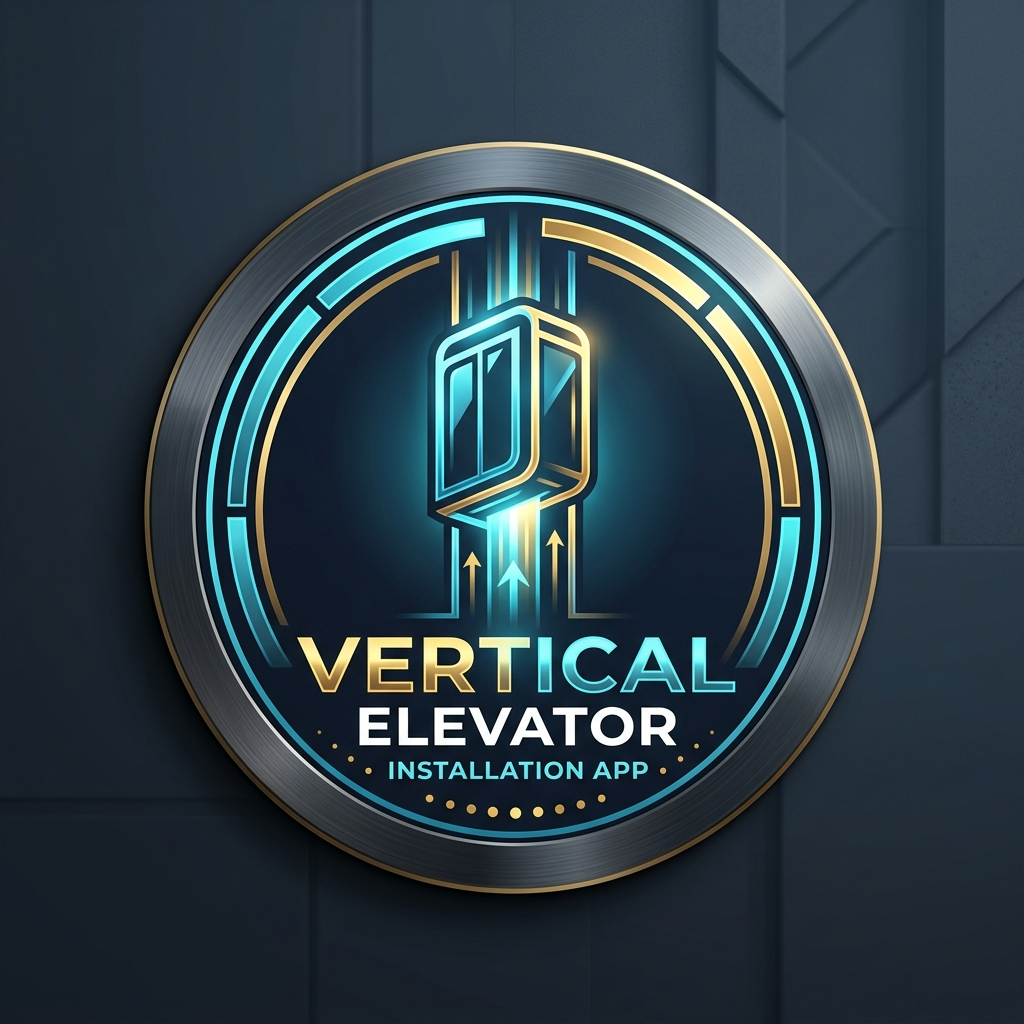
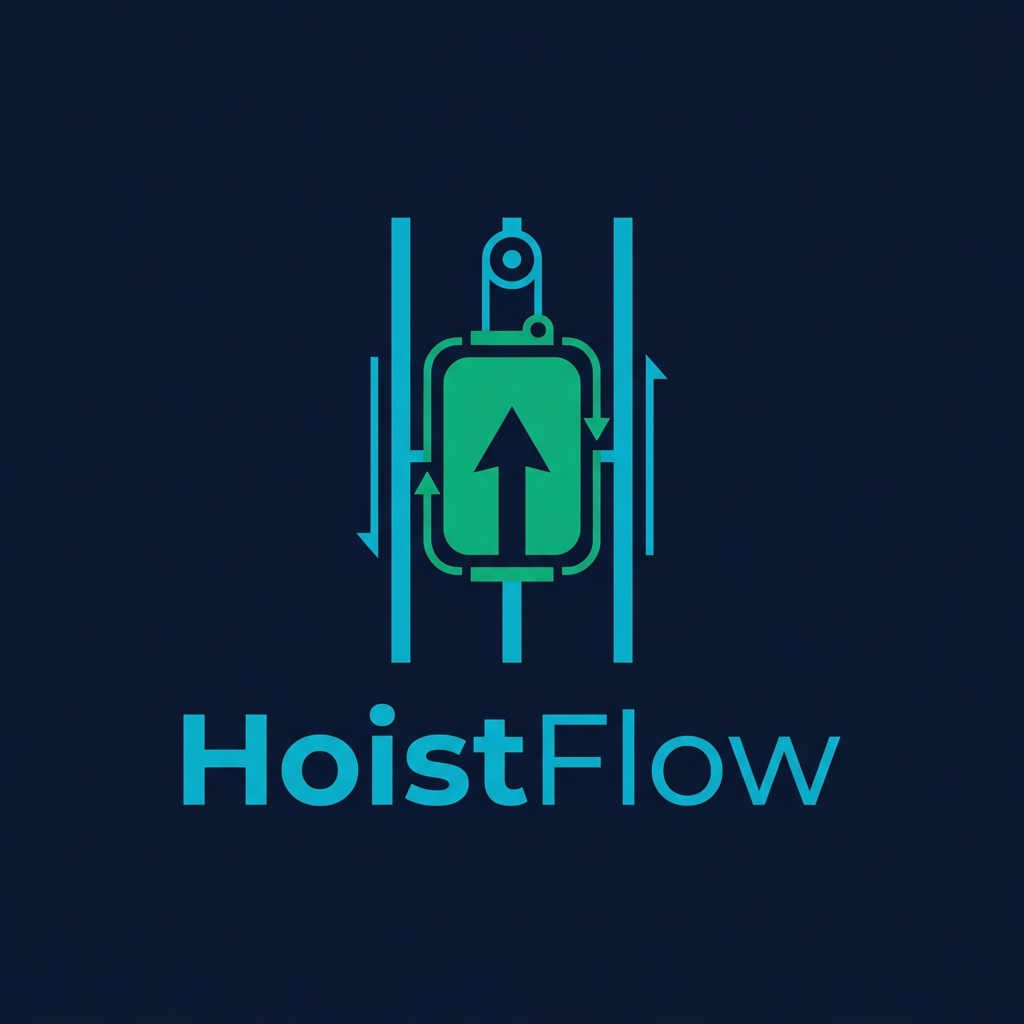
feat: rebrand para HoistFlow

diff --git a/dashboard/src/App.jsx b/dashboard/src/App.jsx
@@ -285,7 +285,7 @@ export default function App() {
   // AI Chat Assistant States
   const [chatMessages, setChatMessages] = useState(() => {
     try {
-      const saved = localStorage.getItem('elevatesync_chat_history');
+      const saved = localStorage.getItem('HoistFlow_chat_history');
       if (saved) {
         return JSON.parse(saved);
       }
@@ -295,7 +295,7 @@ export default function App() {
     return [
       { 
         role: 'assistant', 
-        content: 'Olá! Sou o Assistente IA do ElevateSync. Tenho acesso completo a todas as obras, técnicos, equipes e logs de auditoria em tempo real.\n\nPosso te ajudar com análises de prazos, resumos para colar no WhatsApp, dúvidas técnicas sobre montagem ou relatórios operacionais. Como posso ajudar hoje?', 
+        content: 'Olá! Sou o Assistente IA do HoistFlow. Tenho acesso completo a todas as obras, técnicos, equipes e logs de auditoria em tempo real.\n\nPosso te ajudar com análises de prazos, resumos para colar no WhatsApp, dúvidas técnicas sobre montagem ou relatórios operacionais. Como posso ajudar hoje?', 
         timestamp: new Date().toISOString() 
       }
     ];
@@ -1418,7 +1418,7 @@ export default function App() {
         body: {
           action: 'send_test',
           chat_id: tech.telegram_chat_id,
-          text: `⚡ *Teste de Conexão ElevateSync*\n\nOlá *${tech.full_name}*!\n\nEste é um teste de integração de mensagens do painel administrativo. O seu bot do Telegram está configurado corretamente com o Chat ID \`${tech.telegram_chat_id}\`!`
+          text: `⚡ *Teste de Conexão HoistFlow*\n\nOlá *${tech.full_name}*!\n\nEste é um teste de integração de mensagens do painel administrativo. O seu bot do Telegram está configurado corretamente com o Chat ID \`${tech.telegram_chat_id}\`!`
         }
       });
 
@@ -1817,7 +1817,7 @@ Gere uma resposta curta (máximo de 150 palavras), formatada de maneira limpa co
     
     const updatedMessages = [...chatMessages, newUserMessage];
     setChatMessages(updatedMessages);
-    localStorage.setItem('elevatesync_chat_history', JSON.stringify(updatedMessages));
+    localStorage.setItem('HoistFlow_chat_history', JSON.stringify(updatedMessages));
     setChatInput('');
     setChatLoading(true);
 
@@ -1855,7 +1855,7 @@ Gere uma resposta curta (máximo de 150 palavras), formatada de maneira limpa co
         spreadsheetContext = `\n**DADOS EXTRATADOS DA PLANILHA EXTERNA (NOVAS OBRAS FUTURAS A INICIAR):**\n${JSON.stringify(uploadedData, null, 2)}\n`;
       }
 
-      const systemPrompt = `Você é o Co-piloto de Gestão Inteligente e Assistente IA do ElevateSync.
+      const systemPrompt = `Você é o Co-piloto de Gestão Inteligente e Assistente IA do HoistFlow.
 Você é um engenheiro eletrônico sênior e supervisor de instalação especialista em gestão de obras de elevadores comerciais.
 Sua missão é responder perguntas do gestor sobre o andamento das obras, eficiência de equipes e prover suporte técnico.
 
@@ -1910,7 +1910,7 @@ Assistente IA:`;
       
       const finalMessages = [...updatedMessages, newAssistantMessage];
       setChatMessages(finalMessages);
-      localStorage.setItem('elevatesync_chat_history', JSON.stringify(finalMessages));
+      localStorage.setItem('HoistFlow_chat_history', JSON.stringify(finalMessages));
     } catch (e) {
       console.error(e);
       showToast('Erro ao processar mensagem do chat: ' + e.message, 'danger');
@@ -1924,12 +1924,12 @@ Assistente IA:`;
       const defaultMsg = [
         { 
           role: 'assistant', 
-          content: 'Olá! Sou o Assistente IA do ElevateSync. Tenho acesso completo a todas as obras, técnicos, equipes e logs de auditoria em tempo real.\n\nPosso te ajudar com análises de prazos, resumos para colar no WhatsApp, dúvidas técnicas sobre montagem ou relatórios operacionais. Como posso ajudar hoje?', 
+          content: 'Olá! Sou o Assistente IA do HoistFlow. Tenho acesso completo a todas as obras, técnicos, equipes e logs de auditoria em tempo real.\n\nPosso te ajudar com análises de prazos, resumos para colar no WhatsApp, dúvidas técnicas sobre montagem ou relatórios operacionais. Como posso ajudar hoje?', 
           timestamp: new Date().toISOString() 
         }
       ];
       setChatMessages(defaultMsg);
-      localStorage.setItem('elevatesync_chat_history', JSON.stringify(defaultMsg));
+      localStorage.setItem('HoistFlow_chat_history', JSON.stringify(defaultMsg));
       showToast('Histórico de chat limpo!', 'success');
     }
   };
@@ -1999,7 +1999,7 @@ Assistente IA:`;
       
       const newMessages = [...chatMessages, sysMessage];
       setChatMessages(newMessages);
-      localStorage.setItem('elevatesync_chat_history', JSON.stringify(newMessages));
+      localStorage.setItem('HoistFlow_chat_history', JSON.stringify(newMessages));
 
     } catch (err) {
       console.error(err);
@@ -2159,7 +2159,7 @@ Assistente IA:`;
       <div className="glass-panel animate-fade-in" style={{ padding: '32px', display: 'flex', flexDirection: 'column', gap: '24px' }}>
         {/* Report Header for printing */}
         <div className="print-only" style={{ borderBottom: '2px solid #000000', paddingBottom: '16px', marginBottom: '20px' }}>
-          <h1 style={{ fontSize: '2.2rem', fontWeight: 800, color: '#000000', margin: 0 }}>ElevateSync - Relatório Técnico de Obra</h1>
+          <h1 style={{ fontSize: '2.2rem', fontWeight: 800, color: '#000000', margin: 0 }}>HoistFlow - Relatório Técnico de Obra</h1>
           <p style={{ margin: '6px 0 0', color: '#555555', fontSize: '0.95rem' }}>Gerado em {new Date().toLocaleString()}</p>
         </div>
 
@@ -2903,7 +2903,7 @@ Assistente IA:`;
     return (
       <div style={{ display: 'flex', flexDirection: 'column', height: '100vh', alignItems: 'center', justifyContent: 'center', backgroundColor: '#090d16' }}>
         <RefreshCw style={{ animation: 'spin 2s linear infinite', color: '#06b6d4' }} size={48} />
-        <p style={{ marginTop: '16px', color: '#94a3b8' }}>Carregando painel ElevateSync...</p>
+        <p style={{ marginTop: '16px', color: '#94a3b8' }}>Carregando painel HoistFlow...</p>
       </div>
     );
   }
@@ -3198,7 +3198,7 @@ Assistente IA:`;
 
           <div style={{ textAlign: 'center', marginTop: '16px', borderTop: '1px solid rgba(255,255,255,0.05)', paddingTop: '16px' }}>
             <span style={{ fontSize: '0.75rem', color: '#64748b', display: 'flex', alignItems: 'center', justifyContent: 'center', gap: '4px' }}>
-              <Lock size={12} /> Acesso Restrito • ElevateSync
+              <Lock size={12} /> Acesso Restrito • HoistFlow
             </span>
           </div>
 
@@ -3274,7 +3274,7 @@ Assistente IA:`;
             <div style={{ width: '64px', height: '64px', margin: '0 auto 16px', display: 'flex', alignItems: 'center', justifyContent: 'center', background: 'rgba(6, 182, 212, 0.1)', borderRadius: '50%', border: '1px solid rgba(6, 182, 212, 0.3)' }}>
               <Activity style={{ color: '#06b6d4' }} size={32} />
             </div>
-            <h1 style={{ fontSize: '1.8rem', fontWeight: 700, marginBottom: '8px' }}>ElevateSync</h1>
+            <h1 style={{ fontSize: '1.8rem', fontWeight: 700, marginBottom: '8px' }}>HoistFlow</h1>
             <p style={{ color: '#94a3b8', fontSize: '0.9rem' }}>Acompanhamento de Obras de Elevadores</p>
           </div>
 
@@ -3460,7 +3460,7 @@ Assistente IA:`;
         <div style={{ display: 'flex', alignItems: 'center', gap: '12px' }}>
           <Activity style={{ color: '#06b6d4' }} size={28} />
           <div>
-            <h2 style={{ fontSize: '1.25rem', fontWeight: 700, margin: 0 }}>ElevateSync</h2>
+            <h2 style={{ fontSize: '1.25rem', fontWeight: 700, margin: 0 }}>HoistFlow</h2>
             <p style={{ fontSize: '0.75rem', color: '#94a3b8' }}>Monitoramento de Instalações de Elevadores Comerciais</p>
           </div>
         </div>
@@ -3901,7 +3901,7 @@ Assistente IA:`;
                     return;
                   }
 
-                  let kmlContent = `<?xml version="1.0" encoding="UTF-8"?>\n<kml xmlns="http://www.opengis.net/kml/2.2">\n  <Document>\n    <name>Mapa de Obras - ElevateSync</name>\n`;
+                  let kmlContent = `<?xml version="1.0" encoding="UTF-8"?>\n<kml xmlns="http://www.opengis.net/kml/2.2">\n  <Document>\n    <name>Mapa de Obras - HoistFlow</name>\n`;
 
                   projectsWithAddress.forEach(proj => {
                     kmlContent += `    <Placemark>\n      <name>${proj.project_name || 'Obra'}</name>\n      <description>Modelo: ${proj.elevator_model || '-'} | Empresa: ${proj.company_name || '-'}</description>\n      <address>${proj.endereco}</address>\n    </Placemark>\n`;
@@ -3914,7 +3914,7 @@ Assistente IA:`;
                   
                   const a = document.createElement('a');
                   a.href = url;
-                  a.download = 'obras_elevatesync.kml';
+                  a.download = 'obras_HoistFlow.kml';
                   document.body.appendChild(a);
                   a.click();
                   document.body.removeChild(a);

diff --git a/dashboard/index.html b/dashboard/index.html
@@ -8,7 +8,7 @@
     <meta name="theme-color" content="#0f172a" />
     <meta name="apple-mobile-web-app-capable" content="yes" />
     <meta name="apple-mobile-web-app-status-bar-style" content="black-translucent" />
-    <meta name="apple-mobile-web-app-title" content="Elevadores" />
+    <meta name="apple-mobile-web-app-title" content="HoistFlow" />
     
     <!-- Icons -->
     <link rel="icon" type="image/png" href="/pwa-192x192.png" />
@@ -20,8 +20,8 @@
     <link href="https://fonts.googleapis.com/css2?family=Outfit:wght@300;400;500;600;700&display=swap" rel="stylesheet" />
 
     <!-- SEO Best Practices -->
-    <title>ElevateSync - Gestão de Elevadores</title>
-    <meta name="description" content="Sistema especialista para gestão, controle e acompanhamento em tempo real da instalação de elevadores integrado com bot do Telegram." />
+    <title>HoistFlow - Gestão de HoistFlow</title>
+    <meta name="description" content="Sistema especialista para gestão, controle e acompanhamento em tempo real da instalação de HoistFlow integrado com bot do Telegram." />
   </head>
   <body>
     <div id="root"></div>

diff --git a/supabase/functions/send-email/index.ts b/supabase/functions/send-email/index.ts
@@ -30,20 +30,20 @@ serve(async (req) => {
         'Authorization': `Bearer ${RESEND_API_KEY}`
       },
       body: JSON.stringify({
-        from: 'ElevateSync Security <[email redacted]>',
+        from: 'HoistFlow Security <[email redacted]>',
         to: toEmails,
         subject: `⚠️ ALERTA DE SEGURANÇA: Exclusão de Gestor Master`,
         html: `
           <div style="font-family: sans-serif; padding: 20px; color: #333;">
             <h2 style="color: #ef4444;">Alerta de Segurança Crítico</h2>
             <p>Olá,</p>
-            <p>Um procedimento de exclusão de um usuário de nível <strong>MASTER</strong> foi iniciado no painel ElevateSync.</p>
+            <p>Um procedimento de exclusão de um usuário de nível <strong>MASTER</strong> foi iniciado no painel HoistFlow.</p>
             <div style="background-color: #f8d7da; border-left: 5px solid #ef4444; padding: 15px; margin: 20px 0;">
               <p style="margin: 0;"><strong>Gestor a ser excluído:</strong> ${targetManagerName}</p>
               <p style="margin: 5px 0 0 0;"><strong>Iniciado por:</strong> ${deletingUserName}</p>
             </div>
             <p>Se você desconhece esta ação, acesse imediatamente o painel para revogar o acesso do usuário iniciador.</p>
-            <p>Atenciosamente,<br/>Equipe ElevateSync</p>
+            <p>Atenciosamente,<br/>Equipe HoistFlow</p>
           </div>
         `
       })

diff --git a/dashboard/vite.config.js b/dashboard/vite.config.js
@@ -12,7 +12,7 @@ export default defineConfig({
       includeAssets: ['favicon.ico', 'apple-touch-icon.png', 'pwa-192x192.png', 'pwa-512x512.png'],
       manifest: {
         name: 'Gestão de Elevadores',
-        short_name: 'Elevadores',
+        short_name: 'HoistFlow',
         description: 'Painel de Acompanhamento de Instalação de Elevadores',
         theme_color: '#0f172a',
         background_color: '#0f172a',

diff --git a/supabase/functions/telegram-bot/index.ts b/supabase/functions/telegram-bot/index.ts
@@ -176,7 +176,7 @@ Deno.serve(async (req) => {
       }
       await sendTelegram('sendMessage', {
         chat_id: String(chat_id),
-        text: text || '⚡ *Teste de Conexão*\n\nSeu Chat ID do Telegram foi configurado com sucesso no painel ElevateSync!',
+        text: text || '⚡ *Teste de Conexão*\n\nSeu Chat ID do Telegram foi configurado com sucesso no painel HoistFlow!',
         parse_mode: 'Markdown',
       }, log);
       return new Response(JSON.stringify({ ok: true, message: 'Test message sent' }), {